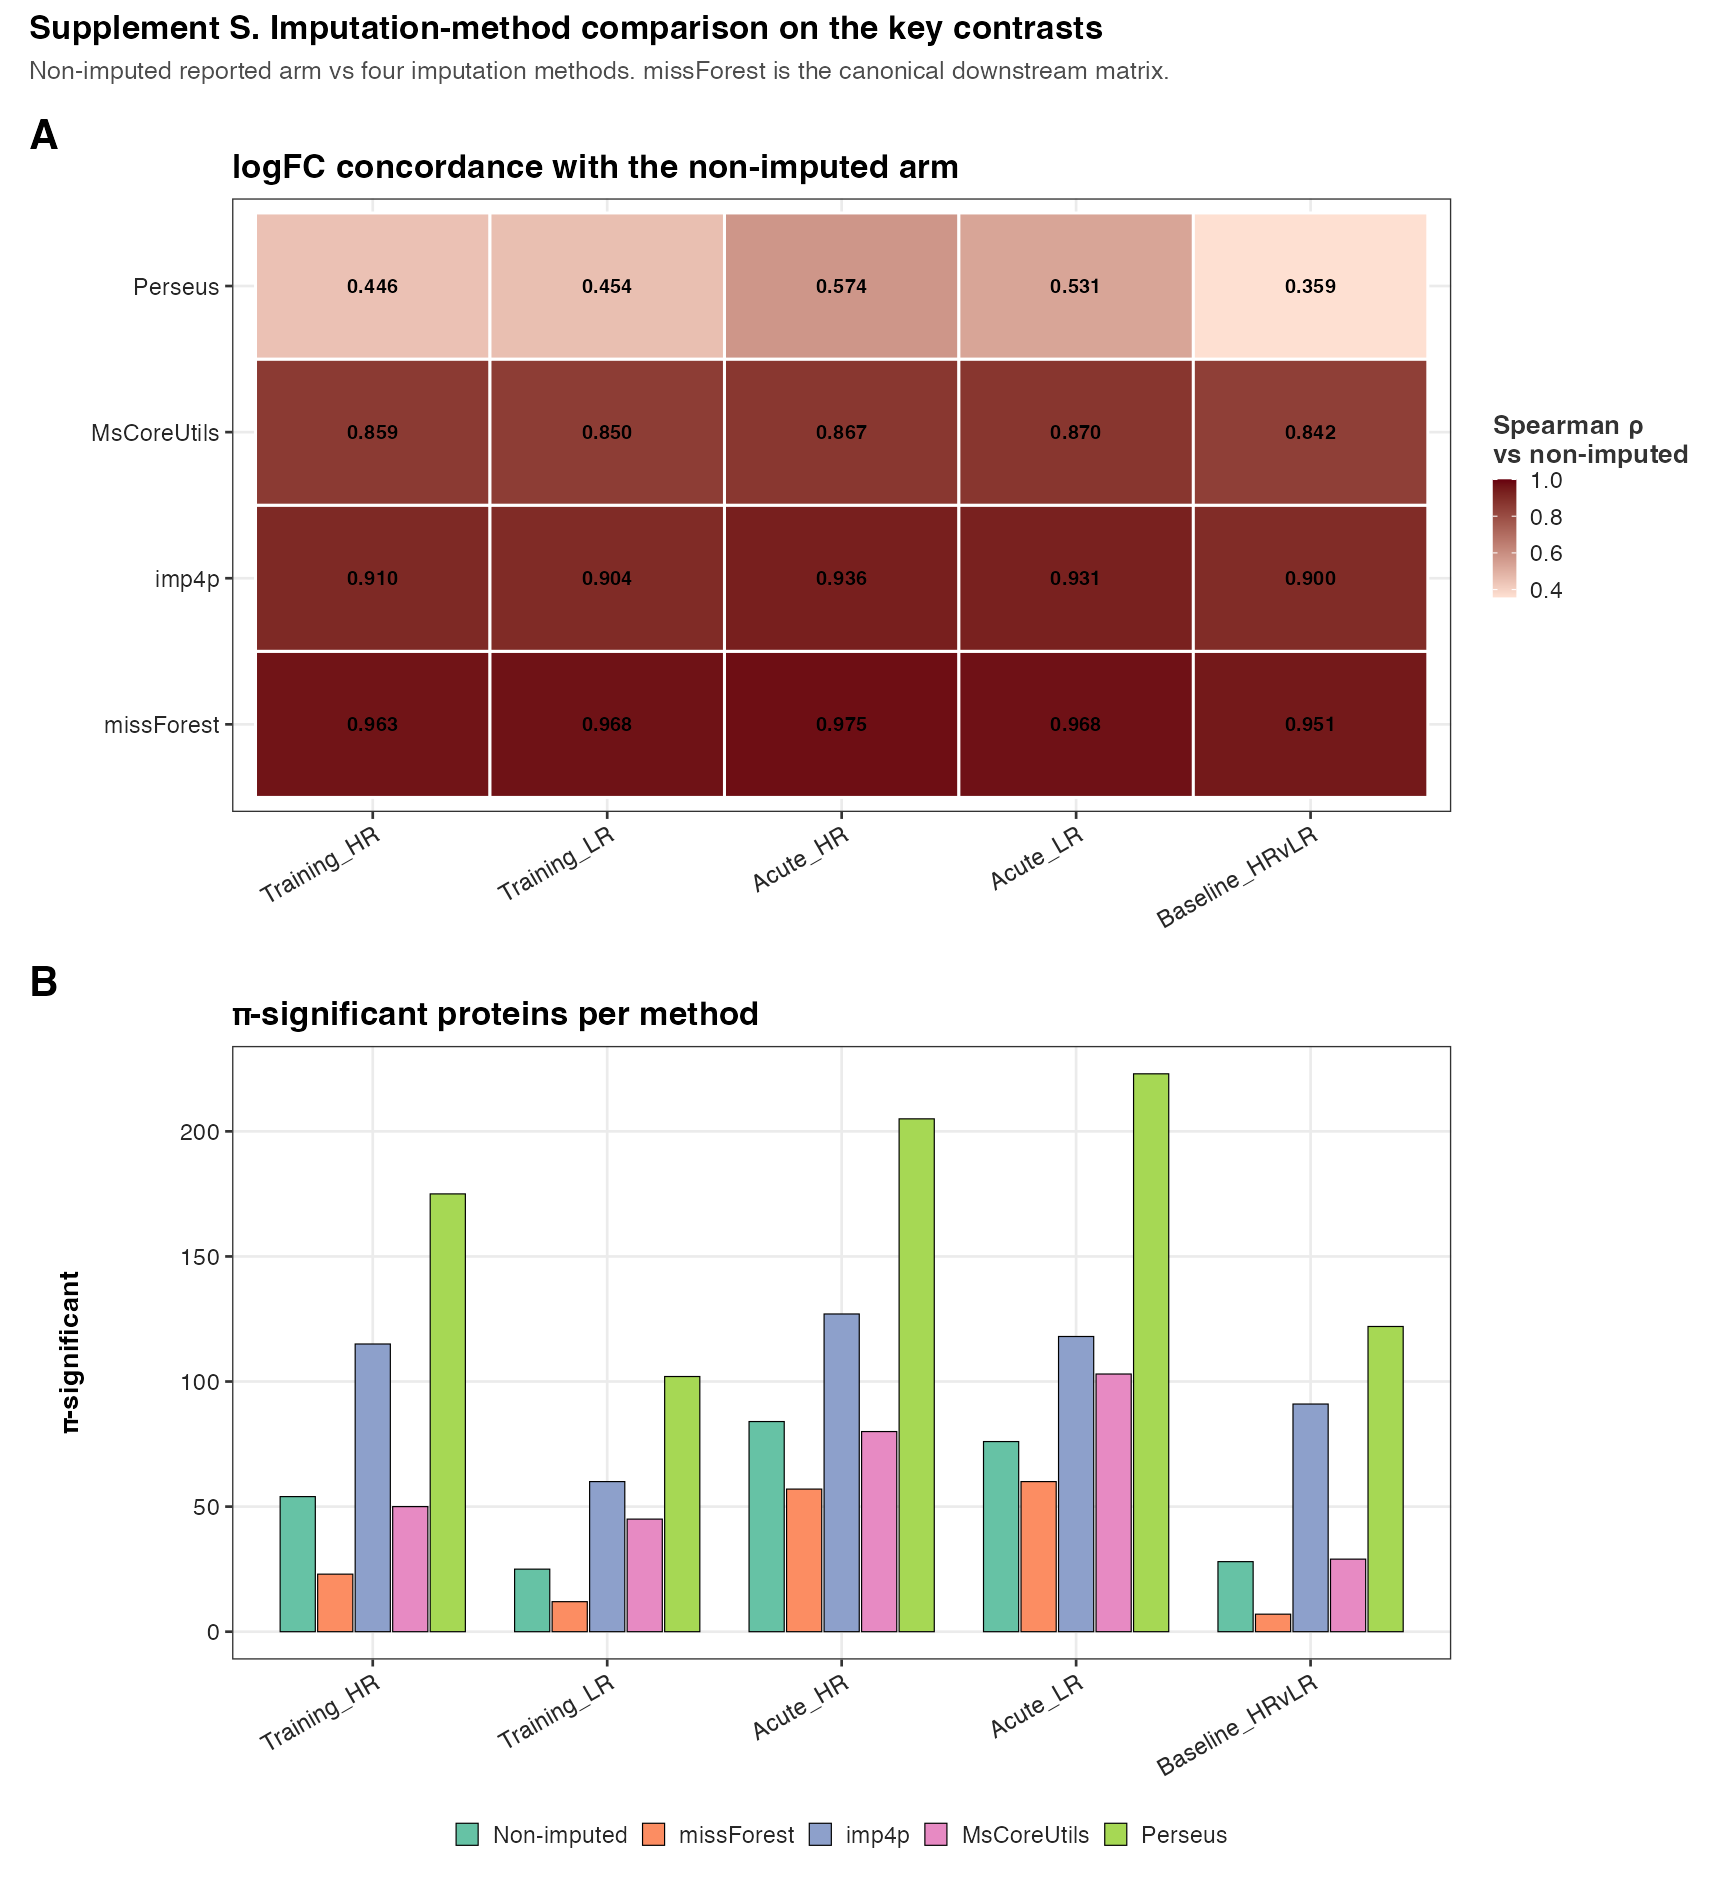
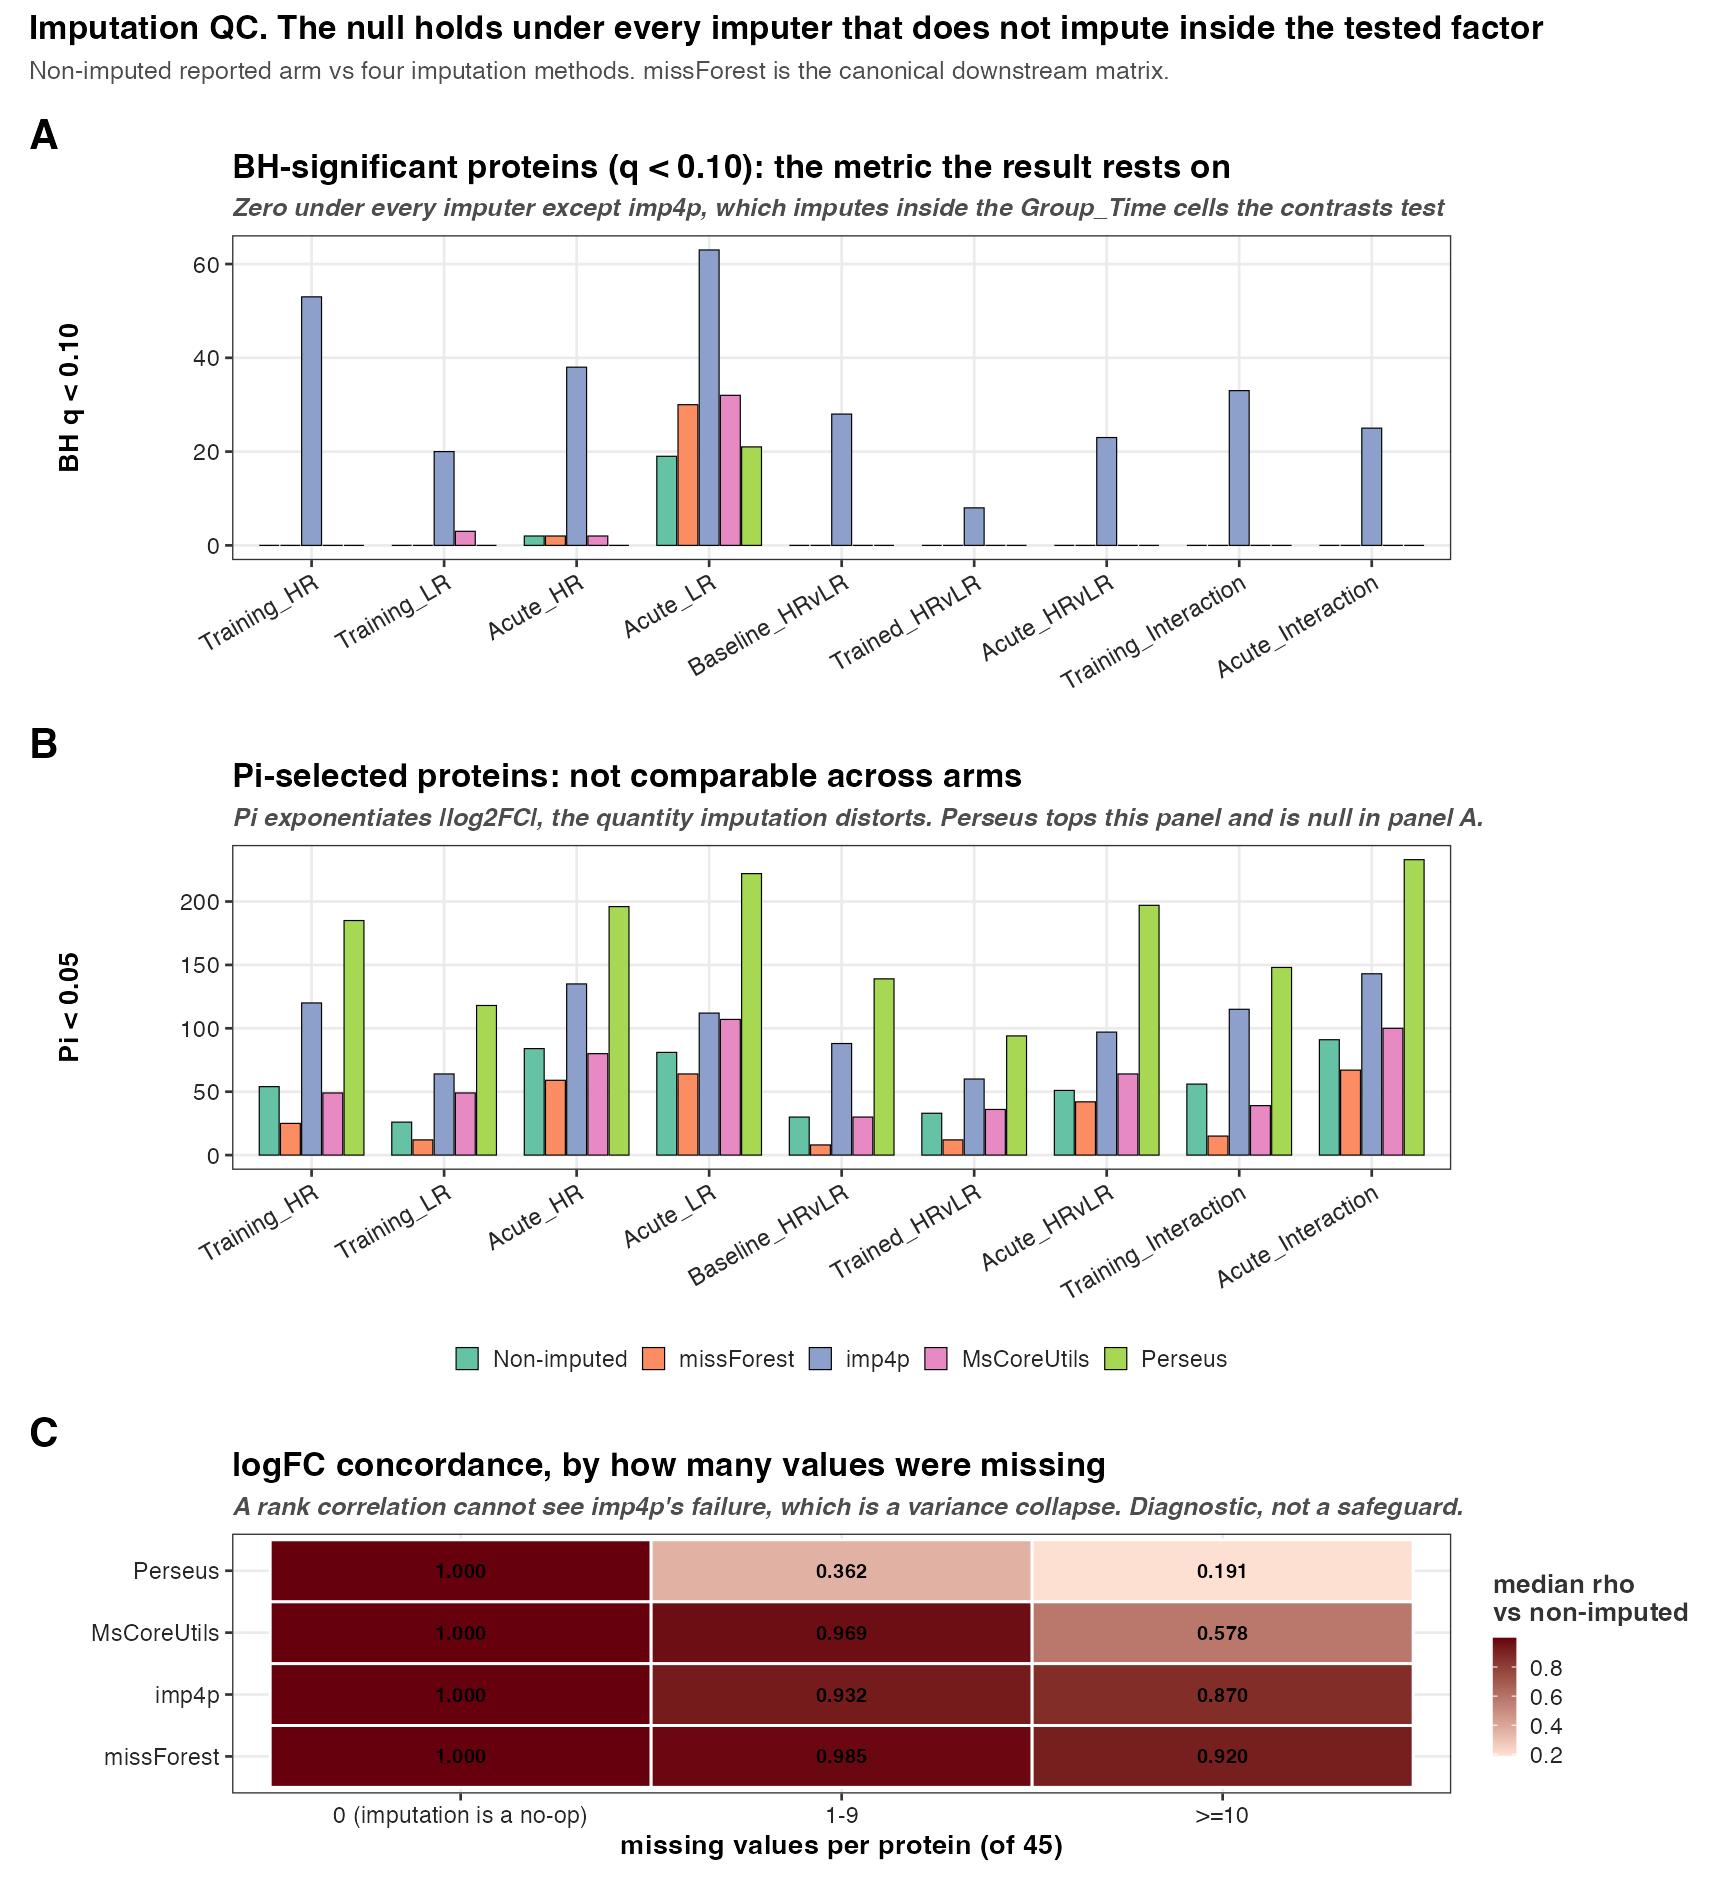
move the imputation qc where it belongs, and make it show BH instead of only pi

diff --git a/README.md b/README.md
@@ -32,19 +32,28 @@ contrast tests, with HR's acute response enriching 217 pathways against LR's 33 
 
 **Read the protein-level counts with care.** Most of them come from the π gate
 (`p^|logFC| < 0.05`), which controls no error rate and admits proteins with raw p up to
-0.269. There are 489 π-calls against 12 proteins at BH < 0.05. Treat π counts as a
-ranking, not as discoveries.
+0.270. There are 506 π-calls against 15 proteins at BH < 0.05 (21 at BH < 0.10), and 70 of
+the π-calls have raw p ≥ 0.05. Treat π counts as a ranking, not as discoveries.
+
+The null is robust to imputation. On BH, missForest (MAR), MsCoreUtils (hybrid) and Perseus
+(MNAR) each return zero significant proteins in all five HR-vs-LR and interaction contrasts,
+matching the non-imputed arm. It is also robust to the blood filter: readmitting all 136
+blood-tagged proteins leaves every one of those contrasts at zero.
 
 Known limitations are stated on the page where the reader meets them: the π gate in
-`HRvLR_pipeline.qmd`, the surviving keratin and HBG2 contaminants in
-`01_filtering.qmd`, the circular module test in F04, and the transductive eigengenes
-in F04 and `04_Figures/extras`.
+`HRvLR_pipeline.qmd`; the human-only search space with no contaminant FASTA and no decoys, so
+reagent contaminants cannot be detected at all (`01_filtering.qmd`); the 34 proteins admitted
+by the missingness filter that the model then cannot test; the circular module test in F04; and
+the transductive eigengenes in F04 and `04_Figures/extras`.
 
 ## Design and Canonical Contrasts
 
 DEP fits the means model `~ 0 + group` (one mean per `Group_Time` cell) with
 `duplicateCorrelation` blocking on `Subject_ID`, and computes all 9 contrasts
-below. Each is a linear combination of the six cell means, so all are estimable.
+below. Each is a linear combination of the six cell means, and is estimable only
+for proteins observed in every cell it touches. 34 proteins reach the model with
+at least one empty cell, so the true tested-N is 1,897–1,912 per contrast, never
+1,920 (`03_DEP/a_non_imputed/b_reports/untested_proteins.csv`).
 
 HR (within-responder):
 
@@ -107,15 +116,23 @@ Rscript 02_Normalization/imputation/a_script/b_mscoreutils.R   # exploratory alt
 Rscript 02_Normalization/imputation/a_script/d_perseus.R       # exploratory alternative (MNAR)
 
 Rscript 03_DEP/b_imputed/a_script/01_run_dep_imputed.R         # exploratory imputed DEP, all four arms
+Rscript 03_DEP/b_imputed/a_script/02_imp4p_circularity.R       # permutation control: why imp4p breaks the null
+Rscript 02_Normalization/imputation/a_script/imputation_qc.R   # imputation QC figure (reads the imputed DEP)
 ```
+
+On BH the null holds under every imputer that does not impute inside the tested factor.
+missForest, MsCoreUtils and Perseus each return **zero** BH-significant proteins in all five
+HR-vs-LR and interaction contrasts, matching the non-imputed arm. imp4p returns 117, because
+`impute.mle` fits a separate EM within each `Group_Time` cell and the contrasts then test among
+those same cells; re-imputing within random cells of equal size collapses it back to zero. Never
+rank robustness on π-counts — π exponentiates |log2FC|, the quantity imputation distorts, and
+Perseus tops the π table while being null on BH.
 
 ### Figures
 
 Six active figures plus one supplement, rendered into `b_reports`; rerun only
 after stages `01` to `03` complete cleanly. F03 recomputes the fgsea enrichment
-fresh each run and writes it for F04/F05 to read, so run F03 before F04/F05. The
-`extras/imputation` supplement reads the `03_DEP/b_imputed` concordance outputs, so run
-it after the imputed DEP.
+fresh each run and writes it for F04/F05 to read, so run F03 before F04/F05.
 
 - `04_Figures/F01`: phenotype atlas
 - `04_Figures/F02`: global proteome overview and QC
@@ -123,7 +140,6 @@ it after the imputed DEP.
 - `04_Figures/extras/concordance_training`: HR-vs-LR training-phase concordance
 - `04_Figures/extras/concordance_acute`: HR-vs-LR acute-phase concordance
 - `04_Figures/F04`: WGCNA module-phenotype linkage (self-contained on the missForest-imputed proteome)
-- `04_Figures/extras/imputation`: imputation-method comparison supplement (non-imputed reference vs the four arms)
 
 ```sh
 Rscript 04_Figures/F01_phenotype/a_script/run.R
@@ -132,7 +148,6 @@ Rscript 04_Figures/F03/a_script/HRvLR_F03_run.R
 Rscript 04_Figures/extras/concordance_training/a_script/run.R
 Rscript 04_Figures/extras/concordance_acute/a_script/run.R
 Rscript 04_Figures/F04/a_script/HRvLR_F04_run.R
-Rscript 04_Figures/extras/imputation/a_script/HRvLR_S_imputation.R
 ```
 
 ## Repository Conventions
@@ -148,8 +163,7 @@ Every stage and figure unit is `a_script/` (code), `b_reports/` (renders), `c_da
 | `04_Figures/shared/` | `pca.R` (sourced by stages 01 and 02) and `references.bib` (the single bibliography for every notebook) |
 | `04_Figures/tests/` | The `testthat` suite. Run with `testthat::test_dir(here("04_Figures", "tests", "testthat"))` |
 | `04_Figures/modules/` | The WGCNA module engine F04 reads: fit, coupling, and the honest in-fold refit |
-| `04_Figures/extras/` | Association, prediction, the concordance figures, and the imputation supplement |
-| `04_Figures/extras/` | The concordance figures (F04/F05) and the imputation supplement |
+| `04_Figures/extras/` | Association, prediction, and the concordance figures |
 
 ## Reproducibility Rules
 
